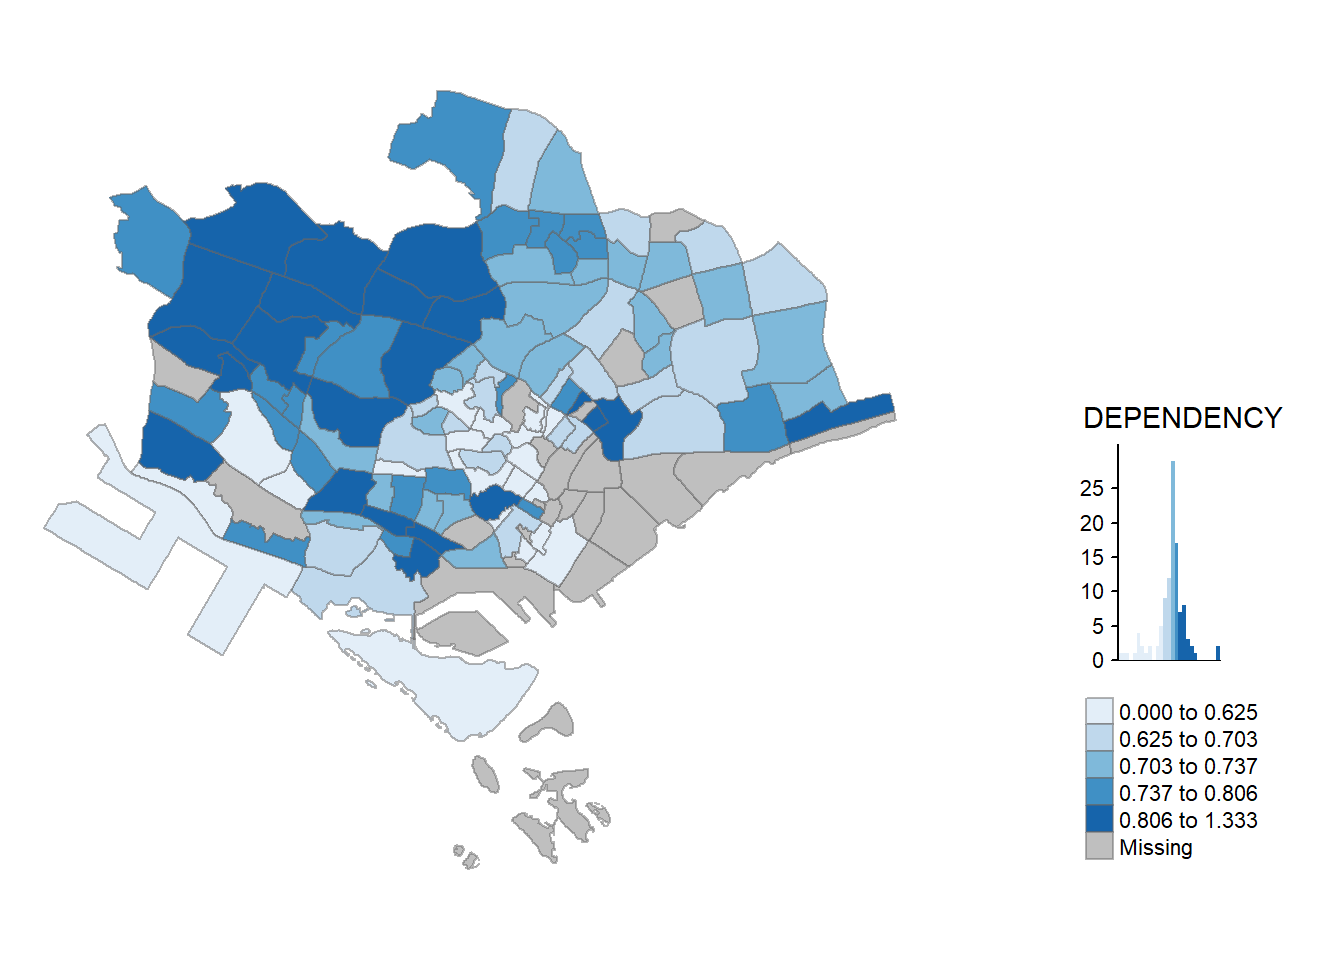
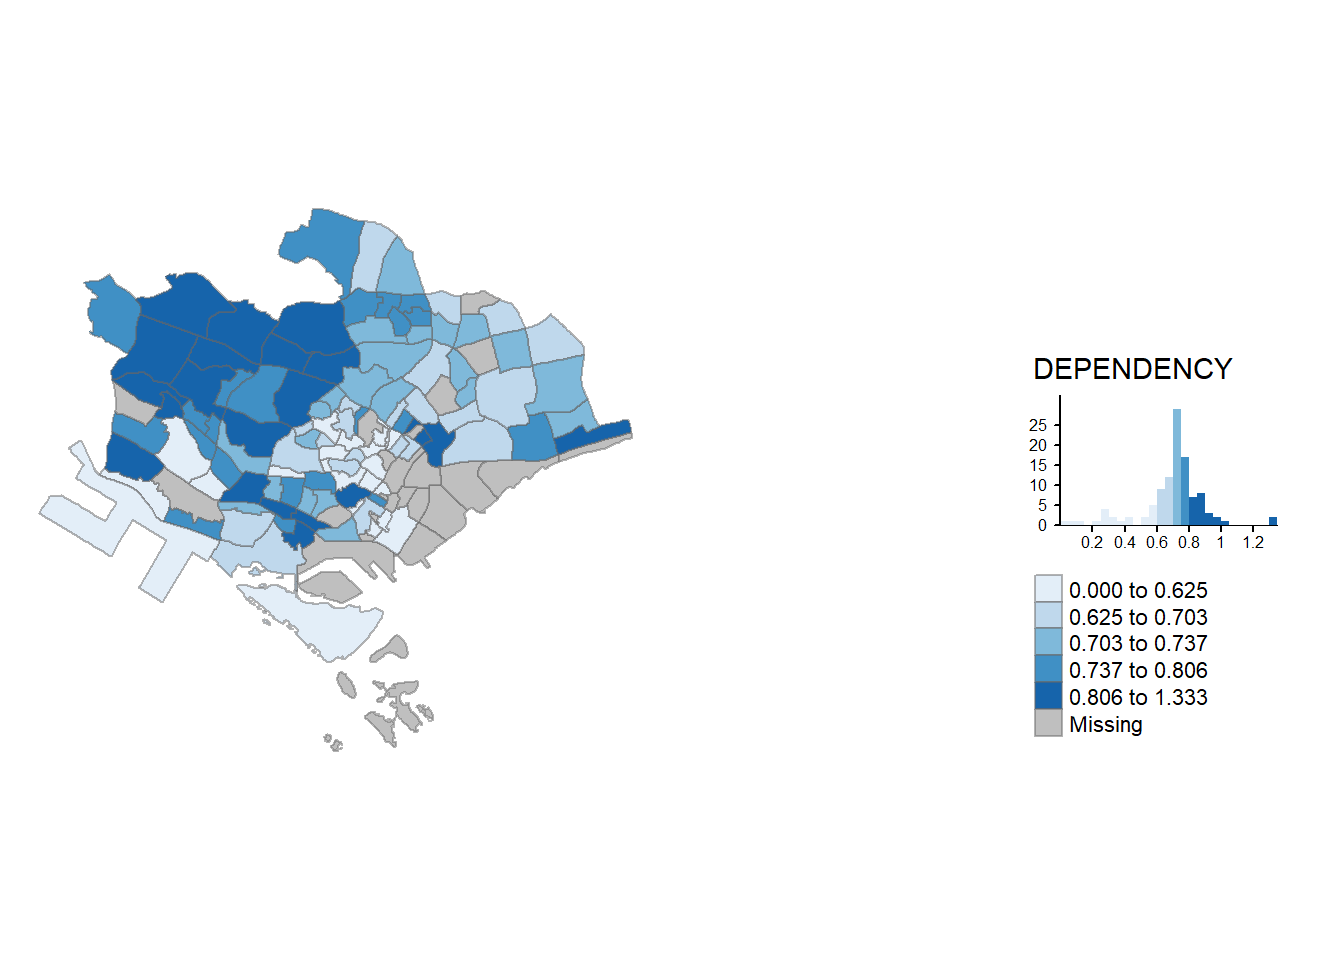
hands on exercise 2

Changed region(s): [[0.0312, 0.0938, 0.6875, 0.9062], [0.75, 0.375, 0.9375, 0.9062], [0.75, 0.4375, 0.7812, 0.4688]]

diff --git a/_site/Hands-on_Ex/Hands-on_Ex02/Hands-on_Ex02.html b/_site/Hands-on_Ex/Hands-on_Ex02/Hands-on_Ex02.html
@@ -230,7 +230,7 @@ pre > code.sourceCode > span > a:first-child::before { text-decoration: underlin
     <div>
     <div class="quarto-title-meta-heading">Modified</div>
     <div class="quarto-title-meta-contents">
-      <p class="date-modified">August 23, 2024</p>
+      <p class="date-modified">August 24, 2024</p>
     </div>
   </div>
     
@@ -863,11 +863,12 @@ dbl (2): Pop, Time
 <span id="cb45-6"><a href="#cb45-6" aria-hidden="true" tabindex="-1"></a>          <span class="at">legend.is.portrait =</span> <span class="cn">TRUE</span>,</span>
 <span id="cb45-7"><a href="#cb45-7" aria-hidden="true" tabindex="-1"></a>          <span class="at">legend.hist.z =</span> <span class="fl">0.1</span>) <span class="sc">+</span></span>
 <span id="cb45-8"><a href="#cb45-8" aria-hidden="true" tabindex="-1"></a>  <span class="fu">tm_layout</span>(<span class="at">legend.outside =</span> <span class="cn">TRUE</span>,</span>
-<span id="cb45-9"><a href="#cb45-9" aria-hidden="true" tabindex="-1"></a>            <span class="at">legend.height =</span> <span class="fl">0.45</span>, </span>
-<span id="cb45-10"><a href="#cb45-10" aria-hidden="true" tabindex="-1"></a>            <span class="at">legend.width =</span> <span class="fl">5.0</span>,</span>
-<span id="cb45-11"><a href="#cb45-11" aria-hidden="true" tabindex="-1"></a>            <span class="at">legend.position =</span> <span class="fu">c</span>(<span class="st">"right"</span>, <span class="st">"bottom"</span>),</span>
-<span id="cb45-12"><a href="#cb45-12" aria-hidden="true" tabindex="-1"></a>            <span class="at">frame =</span> <span class="cn">FALSE</span>) <span class="sc">+</span></span>
-<span id="cb45-13"><a href="#cb45-13" aria-hidden="true" tabindex="-1"></a>  <span class="fu">tm_borders</span>(<span class="at">alpha =</span> <span class="fl">0.5</span>)</span></code><button title="Copy to Clipboard" class="code-copy-button"><i class="bi"></i></button></pre></div>
+<span id="cb45-9"><a href="#cb45-9" aria-hidden="true" tabindex="-1"></a>            <span class="at">legend.outside.size =</span> <span class="fl">0.5</span>,</span>
+<span id="cb45-10"><a href="#cb45-10" aria-hidden="true" tabindex="-1"></a>            <span class="at">legend.height =</span> <span class="fl">0.45</span>, </span>
+<span id="cb45-11"><a href="#cb45-11" aria-hidden="true" tabindex="-1"></a>            <span class="at">legend.width =</span> <span class="fl">5.0</span>,</span>
+<span id="cb45-12"><a href="#cb45-12" aria-hidden="true" tabindex="-1"></a>            <span class="at">legend.position =</span> <span class="fu">c</span>(<span class="st">"right"</span>, <span class="st">"bottom"</span>),</span>
+<span id="cb45-13"><a href="#cb45-13" aria-hidden="true" tabindex="-1"></a>            <span class="at">frame =</span> <span class="cn">FALSE</span>) <span class="sc">+</span></span>
+<span id="cb45-14"><a href="#cb45-14" aria-hidden="true" tabindex="-1"></a>  <span class="fu">tm_borders</span>(<span class="at">alpha =</span> <span class="fl">0.5</span>)</span></code><button title="Copy to Clipboard" class="code-copy-button"><i class="bi"></i></button></pre></div>
 <div class="cell-output cell-output-stderr">
 <pre><code>Warning in pre_process_gt(x, interactive = interactive, orig_crs =
 gm$shape.orig_crs): legend.width controls the width of the legend within a map.
